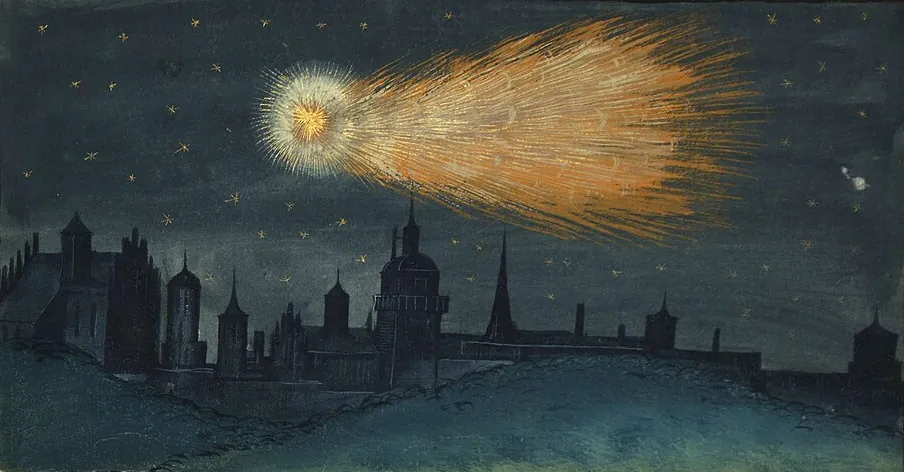
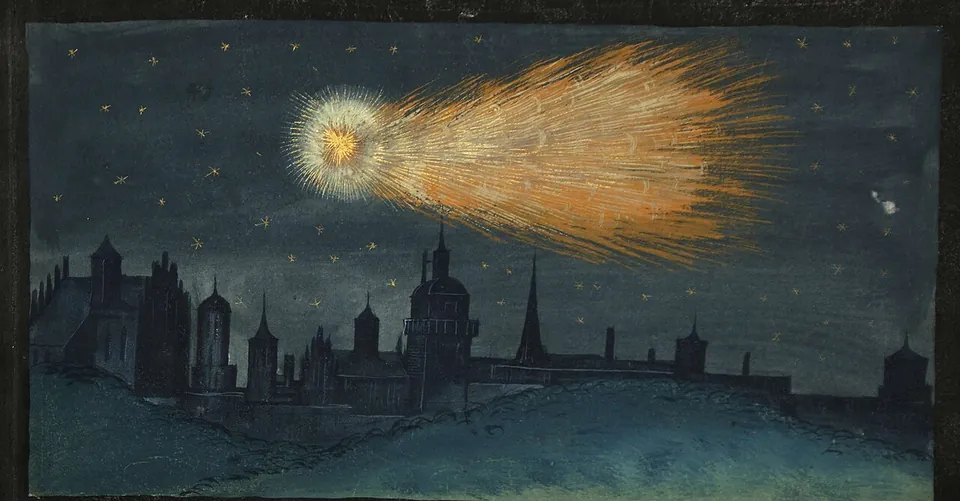
Wunderzeichen: de hele plaat, met de zwarte lijst; nooit meer bijgesneden
Opnieuw uitgesneden tot net onder de onderste lijst (alleen de tekststrook weg) en op de tv getoond met
max-width/max-height in plaats van object-fit: cover.

Claude-Session: https://claude.ai/code/session_01XPSXEtKXmQEYjGpE3XqKUk

diff --git a/feestje-tv.html b/feestje-tv.html
@@ -93,7 +93,9 @@
     /* getijden (het programma) */
     /* Wunderzeichen: een plaat uit het Augsburger Wunderzeichenbuch (ca. 1552) met een Nederlands bijschrift */
     .wonder { margin: 0; height: 100%; display: flex; flex-direction: column; gap: 18px; }
-    .wonder img { display: block; width: 100%; height: 400px; object-fit: cover; border-radius: 2px;
+    .wonder > img { flex: none; }
+    /* de hele plaat, nooit bijgesneden: zo groot als past binnen 890 × 400 */
+    .wonder img { display: block; width: auto; height: auto; max-width: 100%; max-height: 400px; margin: 0 auto; border-radius: 2px;
       box-shadow: 0 0 0 3px #3a2810, 0 0 0 6px #c9a24a, 0 0 0 8px #3a2810, 0 10px 24px rgba(40, 24, 8, .45); transition: opacity .6s ease; }
     .wonder img.laadt { opacity: 0; }
     .wonder .nav { display: flex; justify-content: flex-end; align-items: center; gap: 14px; margin: -6px 0 -10px; }
